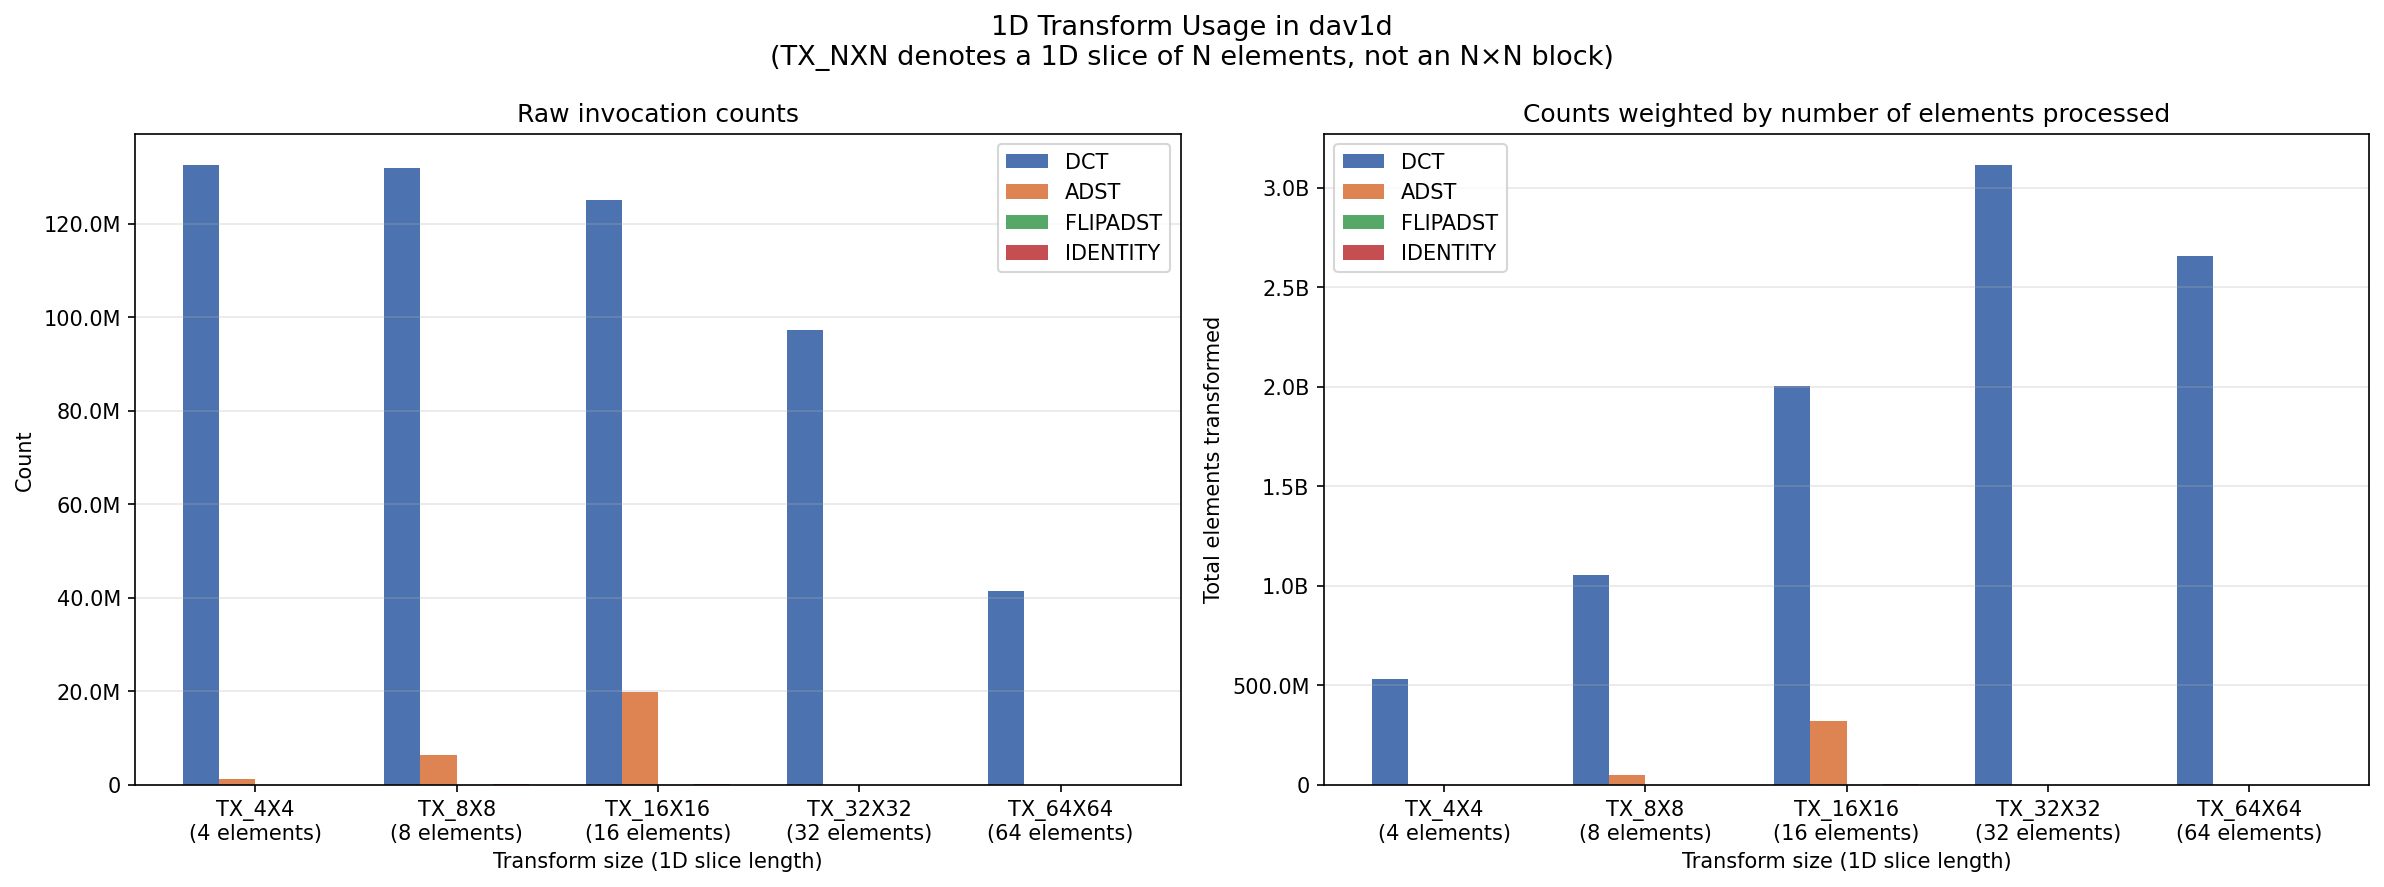
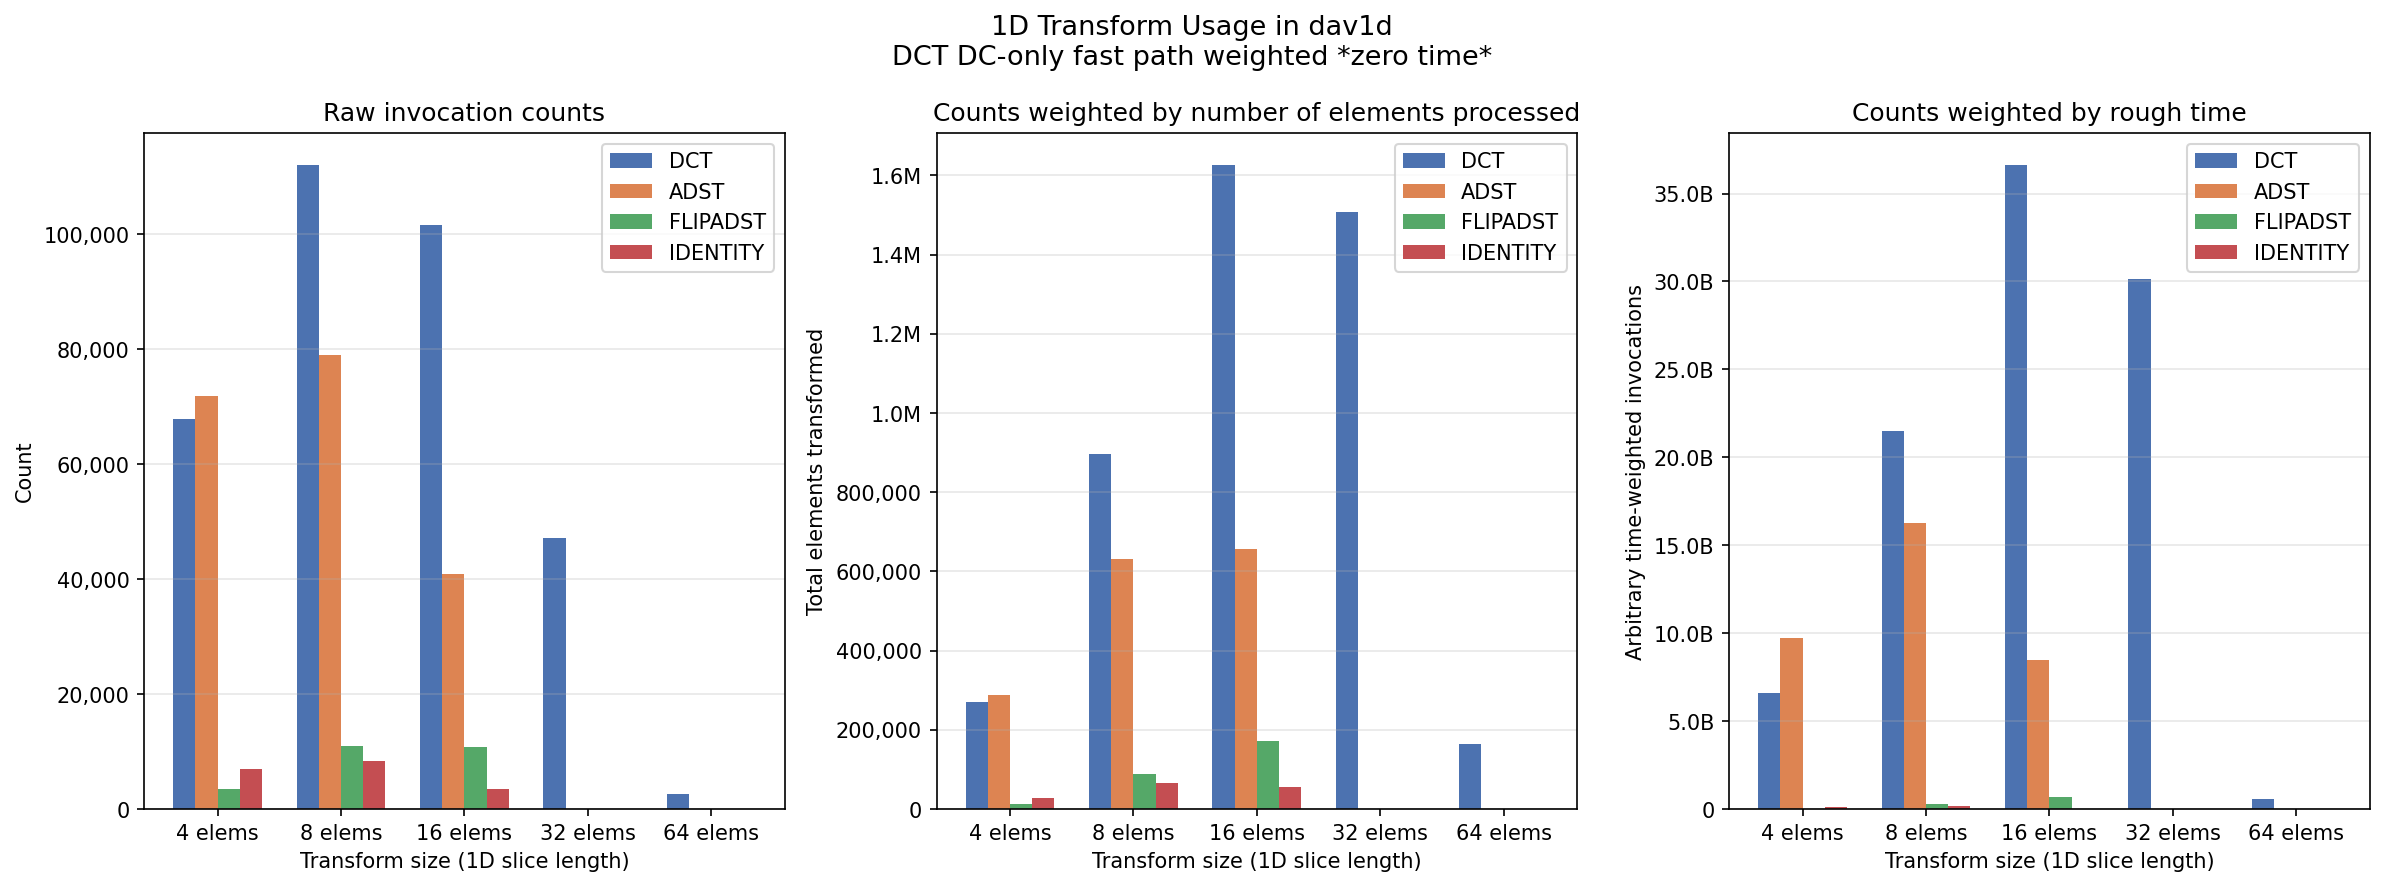
Improve metrics collection

diff --git a/scripts/plot_frequencies.py b/scripts/plot_frequencies.py
@@ -4,43 +4,34 @@ import matplotlib.ticker as ticker
 import numpy as np
 from pathlib import Path
 
-# TX size -> number of elements (1D slice length, not 2D block)
-TX_ELEMENTS = {
-    "TX_4X4": 4,
-    "TX_8X8": 8,
-    "TX_16X16": 16,
-    "TX_32X32": 32,
-    "TX_64X64": 64,
-}
 
-TX_SIZES = list(TX_ELEMENTS.keys())
+TX_SIZES = [4, 8, 16, 32, 64]
 TX_TYPES = ["DCT", "ADST", "FLIPADST", "IDENTITY"]
 
-data = {size: {tx_type: 0 for tx_type in TX_TYPES} for size in TX_SIZES}
+data = {size: {tx_type: (0, 0) for tx_type in TX_TYPES} for size in TX_SIZES}
 
 script_dir = Path(__file__).parent
 with open(script_dir / "data.csv") as f:
     for row in csv.reader(f):
-        if len(row) != 3:
+        if len(row) != 4:
             continue
-        size, tx_type, count = row[0].strip(), row[1].strip(), int(row[2].strip())
+        size, tx_type, count, time_weight = int(row[0].strip()), row[1].strip(), int(row[2].strip()), int(row[3].strip())
         if size in data and tx_type in data[size]:
-            data[size][tx_type] = count
+            data[size][tx_type] = (count, time_weight) 
 
 x = np.arange(len(TX_SIZES))
 width = 0.18
 colors = ["#4C72B0", "#DD8452", "#55A868", "#C44E52"]
 
-SUPTITLE = ("1D Transform Usage in dav1d\n"
-            "(TX_NXN denotes a 1D slice of N elements, not an N×N block)")
-XLABELS = [f"{s}\n({TX_ELEMENTS[s]} elements)" for s in TX_SIZES]
+SUPTITLE = "1D Transform Usage in dav1d\nDCT DC-only fast path weighted *zero time*"
+XLABELS = [f"{s} elems" for s in TX_SIZES]
 XTICKS = x + width * (len(TX_TYPES) - 1) / 2
 
 
-def plot_pair(ax1, ax2, log=False):
+def plot_all(ax1, ax2, ax3):
     # --- Raw counts ---
     for i, tx_type in enumerate(TX_TYPES):
-        counts = [data[size][tx_type] for size in TX_SIZES]
+        counts = [data[size][tx_type][0] for size in TX_SIZES]
         ax1.bar(x + i * width, counts, width, label=tx_type, color=colors[i])
 
     ax1.set_title("Raw invocation counts")
@@ -48,17 +39,14 @@ def plot_pair(ax1, ax2, log=False):
     ax1.set_ylabel("Count")
     ax1.set_xticks(XTICKS)
     ax1.set_xticklabels(XLABELS)
-    if log:
-        ax1.set_yscale("log")
-    else:
-        ax1.yaxis.set_major_formatter(ticker.FuncFormatter(
-            lambda v, _: f"{v/1e6:.1f}M" if v >= 1e6 else f"{int(v):,}"))
+    ax1.yaxis.set_major_formatter(ticker.FuncFormatter(
+        lambda v, _: f"{v/1e6:.1f}M" if v >= 1e6 else f"{int(v):,}"))
     ax1.legend()
     ax1.grid(axis="y", alpha=0.3)
 
     # --- Element-weighted counts ---
     for i, tx_type in enumerate(TX_TYPES):
-        weighted = [data[size][tx_type] * TX_ELEMENTS[size] for size in TX_SIZES]
+        weighted = [data[size][tx_type][0] * size for size in TX_SIZES]
         ax2.bar(x + i * width, weighted, width, label=tx_type, color=colors[i])
 
     ax2.set_title("Counts weighted by number of elements processed")
@@ -66,31 +54,34 @@ def plot_pair(ax1, ax2, log=False):
     ax2.set_ylabel("Total elements transformed")
     ax2.set_xticks(XTICKS)
     ax2.set_xticklabels(XLABELS)
-    if log:
-        ax2.set_yscale("log")
-    else:
-        ax2.yaxis.set_major_formatter(ticker.FuncFormatter(
-            lambda v, _: f"{v/1e9:.1f}B" if v >= 1e9 else f"{v/1e6:.1f}M" if v >= 1e6 else f"{int(v):,}"))
+    ax2.yaxis.set_major_formatter(ticker.FuncFormatter(
+        lambda v, _: f"{v/1e9:.1f}B" if v >= 1e9 else f"{v/1e6:.1f}M" if v >= 1e6 else f"{int(v):,}"))
     ax2.legend()
     ax2.grid(axis="y", alpha=0.3)
 
+    # --- Time-weighted counts ---
+    for i, tx_type in enumerate(TX_TYPES):
+        time_weighted = [data[size][tx_type][0] * data[size][tx_type][1] for size in TX_SIZES]
+        ax3.bar(x + i * width, time_weighted, width, label=tx_type, color=colors[i])
+
+    ax3.set_title("Counts weighted by rough time")
+    ax3.set_xlabel("Transform size (1D slice length)")
+    ax3.set_ylabel("Arbitrary time-weighted invocations")
+    ax3.set_xticks(XTICKS)
+    ax3.set_xticklabels(XLABELS)
+    ax3.yaxis.set_major_formatter(ticker.FuncFormatter(
+        lambda v, _: f"{v/1e9:.1f}B" if v >= 1e9 else f"{v/1e6:.1f}M" if v >= 1e6 else f"{int(v):,}"))
+    ax3.legend()
+    ax3.grid(axis="y", alpha=0.3)
+
 
 # Linear scale
-fig1, (ax1, ax2) = plt.subplots(1, 2, figsize=(16, 6))
+fig1, (ax1, ax2, ax3) = plt.subplots(1, 3, figsize=(16, 6))
 fig1.suptitle(SUPTITLE, fontsize=13)
-plot_pair(ax1, ax2, log=False)
+plot_all(ax1, ax2, ax3)
 fig1.tight_layout()
 out1 = script_dir / "transform_frequencies.png"
 fig1.savefig(out1, dpi=150, bbox_inches="tight")
 print(f"Saved to {out1}")
-
-# Log scale
-fig2, (ax3, ax4) = plt.subplots(1, 2, figsize=(16, 6))
-fig2.suptitle(SUPTITLE + " — log scale", fontsize=13)
-plot_pair(ax3, ax4, log=True)
-fig2.tight_layout()
-out2 = script_dir / "transform_frequencies_log.png"
-fig2.savefig(out2, dpi=150, bbox_inches="tight")
-print(f"Saved to {out2}")
 
 plt.show()

diff --git a/src/itx_1d.c b/src/itx_1d.c
@@ -88,8 +88,6 @@ inv_dct4_1d_internal_c(int32_t *const c, const ptrdiff_t stride,
     c[1 * stride] = CLIP(t1 + t2);
     c[2 * stride] = CLIP(t1 - t2);
     c[3 * stride] = CLIP(t0 - t3);
-
-    atomic_fetch_add(&dav1d_tx1d_metrics[TX_4X4][DCT], 1);
 }
 
 static void inv_dct4_1d_c(int32_t *const c, const ptrdiff_t stride,
@@ -143,8 +141,6 @@ inv_dct8_1d_internal_c(int32_t *const c, const ptrdiff_t stride,
     c[5 * stride] = CLIP(t2 - t5);
     c[6 * stride] = CLIP(t1 - t6);
     c[7 * stride] = CLIP(t0 - t7);
-
-    atomic_fetch_add(&dav1d_tx1d_metrics[TX_8X8][DCT], 1);
 }
 
 static void inv_dct8_1d_c(int32_t *const c, const ptrdiff_t stride,
@@ -240,8 +236,6 @@ inv_dct16_1d_internal_c(int32_t *const c, const ptrdiff_t stride,
     c[13 * stride] = CLIP(t2 - t13a);
     c[14 * stride] = CLIP(t1 - t14);
     c[15 * stride] = CLIP(t0 - t15a);
-
-    atomic_fetch_add(&dav1d_tx1d_metrics[TX_16X16][DCT], 1);
 }
 
 static void inv_dct16_1d_c(int32_t *const c, const ptrdiff_t stride,
@@ -432,8 +426,6 @@ inv_dct32_1d_internal_c(int32_t *const c, const ptrdiff_t stride,
     c[29 * stride] = CLIP(t2  - t29);
     c[30 * stride] = CLIP(t1  - t30a);
     c[31 * stride] = CLIP(t0  - t31);
-
-    atomic_fetch_add(&dav1d_tx1d_metrics[TX_32X32][DCT], 1);
 }
 
 static void inv_dct32_1d_c(int32_t *const c, const ptrdiff_t stride,
@@ -787,8 +779,6 @@ static void inv_dct64_1d_c(int32_t *const c, const ptrdiff_t stride,
     c[61 * stride] = CLIP(t2  - t61a);
     c[62 * stride] = CLIP(t1  - t62);
     c[63 * stride] = CLIP(t0  - t63a);
-
-    atomic_fetch_add(&dav1d_tx1d_metrics[TX_64X64][DCT], 1);
 }
 
 static NOINLINE void
@@ -810,8 +800,6 @@ inv_adst4_1d_internal_c(const int32_t *const in, const ptrdiff_t in_s,
     out[3 * out_s] = (((3803 - 4096) * in0 + (2482 - 4096) * in2 -
                         1321         * in3 - (3344 - 4096) * in1 + 2048) >> 12) +
                      in0 + in2 - in1;
-
-    atomic_fetch_add(&dav1d_tx1d_metrics[TX_4X4][ADST], 1);
 }
 
 static NOINLINE void
@@ -861,8 +849,6 @@ inv_adst8_1d_internal_c(const int32_t *const in, const ptrdiff_t in_s,
     out[4 * out_s] =   ((t2 - t3) * 181 + 128) >> 8;
     out[2 * out_s] =   ((t6 + t7) * 181 + 128) >> 8;
     out[5 * out_s] = -(((t6 - t7) * 181 + 128) >> 8);
-
-    atomic_fetch_add(&dav1d_tx1d_metrics[TX_8X8][ADST], 1);
 }
 
 static NOINLINE void
@@ -974,8 +960,6 @@ inv_adst16_1d_internal_c(const int32_t *const in, const ptrdiff_t in_s,
     out[ 9 * out_s] = -(((t10  - t11)  * 181 + 128) >> 8);
     out[ 5 * out_s] = -(((t14a + t15a) * 181 + 128) >> 8);
     out[10 * out_s] =   ((t14a - t15a) * 181 + 128) >> 8;
-
-    atomic_fetch_add(&dav1d_tx1d_metrics[TX_16X16][ADST], 1);
 }
 
 #define inv_adst_1d(sz) \
@@ -1005,8 +989,6 @@ static void inv_identity4_1d_c(int32_t *const c, const ptrdiff_t stride,
         const int in = c[stride * i];
         c[stride * i] = in + ((in * 1697 + 2048) >> 12);
     }
-
-    atomic_fetch_add(&dav1d_tx1d_metrics[TX_4X4][IDENTITY], 1);
 }
 
 static void inv_identity8_1d_c(int32_t *const c, const ptrdiff_t stride,
@@ -1015,8 +997,6 @@ static void inv_identity8_1d_c(int32_t *const c, const ptrdiff_t stride,
     assert(stride > 0);
     for (int i = 0; i < 8; i++)
         c[stride * i] *= 2;
-
-    atomic_fetch_add(&dav1d_tx1d_metrics[TX_8X8][IDENTITY], 1);
 }
 
 static void inv_identity16_1d_c(int32_t *const c, const ptrdiff_t stride,
@@ -1027,8 +1007,6 @@ static void inv_identity16_1d_c(int32_t *const c, const ptrdiff_t stride,
         const int in = c[stride * i];
         c[stride * i] = 2 * in + ((in * 1697 + 1024) >> 11);
     }
-
-    atomic_fetch_add(&dav1d_tx1d_metrics[TX_16X16][IDENTITY], 1);
 }
 
 static void inv_identity32_1d_c(int32_t *const c, const ptrdiff_t stride,
@@ -1037,11 +1015,7 @@ static void inv_identity32_1d_c(int32_t *const c, const ptrdiff_t stride,
     assert(stride > 0);
     for (int i = 0; i < 32; i++)
         c[stride * i] *= 4;
-
-    atomic_fetch_add(&dav1d_tx1d_metrics[TX_32X32][IDENTITY], 1);
 }
-
-atomic_size_t dav1d_tx1d_metrics[N_TX_SIZES][N_TX_1D_TYPES] = { 0 };
 
 const itx_1d_fn dav1d_tx1d_fns[N_TX_SIZES][N_TX_1D_TYPES] = {
     [TX_4X4] = {

diff --git a/tools/dav1d.c b/tools/dav1d.c
@@ -392,29 +392,29 @@ int main(const int argc, char *const *const argv) {
 
 
     struct dav1d_metrics_t metrics = dav1d_get_metrics();
-    printf("TX_4X4, DCT, %zu\n", metrics.info[TX_4X4][DCT]);
-    printf("TX_8X8, DCT, %zu\n", metrics.info[TX_8X8][DCT]);
-    printf("TX_16X16, DCT, %zu\n", metrics.info[TX_16X16][DCT]);
-    printf("TX_32X32, DCT, %zu\n", metrics.info[TX_32X32][DCT]);
-    printf("TX_64X64, DCT, %zu\n", metrics.info[TX_64X64][DCT]);
+    printf("4, DCT, %zu, %lu\n", metrics.info[TX_4X4][DCT], metrics.time_info[TX_4X4][DCT]);
+    printf("8, DCT, %zu, %lu\n", metrics.info[TX_8X8][DCT], metrics.time_info[TX_8X8][DCT]);
+    printf("16, DCT, %zu, %lu\n", metrics.info[TX_16X16][DCT], metrics.time_info[TX_16X16][DCT]);
+    printf("32, DCT, %zu, %lu\n", metrics.info[TX_32X32][DCT], metrics.time_info[TX_32X32][DCT]);
+    printf("64, DCT, %zu, %lu\n", metrics.info[TX_64X64][DCT], metrics.time_info[TX_64X64][DCT]);
 
-    printf("TX_4X4, ADST, %zu\n", metrics.info[TX_4X4][ADST]);
-    printf("TX_8X8, ADST, %zu\n", metrics.info[TX_8X8][ADST]);
-    printf("TX_16X16, ADST, %zu\n", metrics.info[TX_16X16][ADST]);
-    printf("TX_32X32, ADST, %zu\n", metrics.info[TX_32X32][ADST]);
-    printf("TX_64X64, ADST, %zu\n", metrics.info[TX_64X64][ADST]);
+    printf("4, ADST, %zu, %lu\n", metrics.info[TX_4X4][ADST], metrics.time_info[TX_4X4][ADST]);
+    printf("8, ADST, %zu, %lu\n", metrics.info[TX_8X8][ADST], metrics.time_info[TX_8X8][ADST]);
+    printf("16, ADST, %zu, %lu\n", metrics.info[TX_16X16][ADST], metrics.time_info[TX_16X16][ADST]);
+    printf("32, ADST, %zu, %lu\n", metrics.info[TX_32X32][ADST], metrics.time_info[TX_32X32][ADST]);
+    printf("64, ADST, %zu, %lu\n", metrics.info[TX_64X64][ADST], metrics.time_info[TX_64X64][ADST]);
 
-    printf("TX_4X4, FLIPADST, %zu\n", metrics.info[TX_4X4][FLIPADST]);
-    printf("TX_8X8, FLIPADST, %zu\n", metrics.info[TX_8X8][FLIPADST]);
-    printf("TX_16X16, FLIPADST, %zu\n", metrics.info[TX_16X16][FLIPADST]);
-    printf("TX_32X32, FLIPADST, %zu\n", metrics.info[TX_32X32][FLIPADST]);
-    printf("TX_64X64, FLIPADST, %zu\n", metrics.info[TX_64X64][FLIPADST]);
+    printf("4, FLIPADST, %zu, %lu\n", metrics.info[TX_4X4][FLIPADST], metrics.time_info[TX_4X4][FLIPADST]);
+    printf("8, FLIPADST, %zu, %lu\n", metrics.info[TX_8X8][FLIPADST], metrics.time_info[TX_8X8][FLIPADST]);
+    printf("16, FLIPADST, %zu, %lu\n", metrics.info[TX_16X16][FLIPADST], metrics.time_info[TX_16X16][FLIPADST]);
+    printf("32, FLIPADST, %zu, %lu\n", metrics.info[TX_32X32][FLIPADST], metrics.time_info[TX_32X32][FLIPADST]);
+    printf("64, FLIPADST, %zu, %lu\n", metrics.info[TX_64X64][FLIPADST], metrics.time_info[TX_64X64][FLIPADST]);
 
-    printf("TX_4X4, IDENTITY, %zu\n", metrics.info[TX_4X4][IDENTITY]);
-    printf("TX_8X8, IDENTITY, %zu\n", metrics.info[TX_8X8][IDENTITY]);
-    printf("TX_16X16, IDENTITY, %zu\n", metrics.info[TX_16X16][IDENTITY]);
-    printf("TX_32X32, IDENTITY, %zu\n", metrics.info[TX_32X32][IDENTITY]);
-    printf("TX_64X64, IDENTITY, %zu\n", metrics.info[TX_64X64][IDENTITY]);
+    printf("4, IDENTITY, %zu, %lu\n", metrics.info[TX_4X4][IDENTITY], metrics.time_info[TX_4X4][IDENTITY]);
+    printf("8, IDENTITY, %zu, %lu\n", metrics.info[TX_8X8][IDENTITY], metrics.time_info[TX_8X8][IDENTITY]);
+    printf("16, IDENTITY, %zu, %lu\n", metrics.info[TX_16X16][IDENTITY], metrics.time_info[TX_16X16][IDENTITY]);
+    printf("32, IDENTITY, %zu, %lu\n", metrics.info[TX_32X32][IDENTITY], metrics.time_info[TX_32X32][IDENTITY]);
+    printf("64, IDENTITY, %zu, %lu\n", metrics.info[TX_64X64][IDENTITY], metrics.time_info[TX_64X64][IDENTITY]);
 
     return (res == 0) ? EXIT_SUCCESS : EXIT_FAILURE;
 }

diff --git a/src/itx_tmpl.c b/src/itx_tmpl.c
@@ -27,10 +27,12 @@
 
 #include "config.h"
 
+#include <stdatomic.h>
 #include <stddef.h>
 #include <stdint.h>
 #include <stdlib.h>
 #include <string.h>
+#include <time.h>
 
 #include "common/attributes.h"
 #include "common/intops.h"
@@ -39,6 +41,9 @@
 #include "src/itx_1d.h"
 #include "src/scan.h"
 #include "src/tables.h"
+
+atomic_size_t dav1d_tx1d_metrics[N_TX_SIZES][N_TX_1D_TYPES] = { 0 };
+atomic_uint_fast64_t dav1d_tx1d_metrics_time[N_TX_SIZES][N_TX_1D_TYPES] = { 0 };
 
 static NOINLINE void
 inv_txfm_add_c(pixel *dst, const ptrdiff_t stride, coef *const coeff,
@@ -55,6 +60,13 @@ inv_txfm_add_c(pixel *dst, const ptrdiff_t stride, coef *const coeff,
     const int is_rect2 = w * 2 == h || h * 2 == w;
     const int rnd = (1 << shift) >> 1;
 
+    const uint8_t *const txtps = dav1d_tx1d_types[txtp];
+    const itx_1d_fn first_1d_fn = dav1d_tx1d_fns[t_dim->lw][txtps[0]];
+    const itx_1d_fn second_1d_fn = dav1d_tx1d_fns[t_dim->lh][txtps[1]];
+
+    atomic_fetch_add(&dav1d_tx1d_metrics[t_dim->lw][txtps[0]], 1);
+    atomic_fetch_add(&dav1d_tx1d_metrics[t_dim->lh][txtps[1]], 1);
+
     if (eob < has_dconly) {
         int dc = coeff[0];
         coeff[0] = 0;
@@ -66,12 +78,10 @@ inv_txfm_add_c(pixel *dst, const ptrdiff_t stride, coef *const coeff,
         for (int y = 0; y < h; y++, dst += PXSTRIDE(stride))
             for (int x = 0; x < w; x++)
                 dst[x] = iclip_pixel(dst[x] + dc);
+
         return;
     }
 
-    const uint8_t *const txtps = dav1d_tx1d_types[txtp];
-    const itx_1d_fn first_1d_fn = dav1d_tx1d_fns[t_dim->lw][txtps[0]];
-    const itx_1d_fn second_1d_fn = dav1d_tx1d_fns[t_dim->lh][txtps[1]];
     const int sh = imin(h, 32), sw = imin(w, 32);
 #if BITDEPTH == 8
     const int row_clip_min = INT16_MIN;
@@ -93,6 +103,8 @@ inv_txfm_add_c(pixel *dst, const ptrdiff_t stride, coef *const coeff,
         last_nonzero_col = dav1d_last_nonzero_col_from_eob[tx][eob];
     }
     assert(last_nonzero_col < sh);
+
+    clock_t start = clock();
     for (int y = 0; y <= last_nonzero_col; y++, c += w) {
         if (is_rect2)
             for (int x = 0; x < sw; x++)
@@ -104,13 +116,18 @@ inv_txfm_add_c(pixel *dst, const ptrdiff_t stride, coef *const coeff,
     }
     if (last_nonzero_col + 1 < sh)
         memset(c, 0, sizeof(*c) * (sh - last_nonzero_col - 1) * w);
+    clock_t end = clock();
+    atomic_fetch_add(&dav1d_tx1d_metrics_time[t_dim->lw][txtps[0]], end - start);
 
     memset(coeff, 0, sizeof(*coeff) * sw * sh);
     for (int i = 0; i < w * sh; i++)
         tmp[i] = iclip((tmp[i] + rnd) >> shift, col_clip_min, col_clip_max);
 
+    start = clock();
     for (int x = 0; x < w; x++)
         second_1d_fn(&tmp[x], w, col_clip_min, col_clip_max);
+    end = clock();
+    atomic_fetch_add(&dav1d_tx1d_metrics_time[t_dim->lh][txtps[1]], end - start);
 
     c = tmp;
     for (int y = 0; y < h; y++, dst += PXSTRIDE(stride))

diff --git a/src/itx_1d.h b/src/itx_1d.h
@@ -47,6 +47,7 @@ void (name)(int32_t *c, ptrdiff_t stride, int min, int max)
 typedef decl_itx_1d_fn(*itx_1d_fn);
 
 EXTERN atomic_size_t dav1d_tx1d_metrics[N_TX_SIZES][N_TX_1D_TYPES];
+EXTERN atomic_size_t dav1d_tx1d_metrics_time[N_TX_SIZES][N_TX_1D_TYPES];
 EXTERN const itx_1d_fn dav1d_tx1d_fns[N_TX_SIZES][N_TX_1D_TYPES];
 EXTERN const uint8_t /* enum Tx1dType */ dav1d_tx1d_types[N_TX_TYPES][2];
 

diff --git a/src/lib.c b/src/lib.c
@@ -765,5 +765,6 @@ void dav1d_data_props_unref(Dav1dDataProps *const props) {
 struct dav1d_metrics_t dav1d_get_metrics(void) {
     struct dav1d_metrics_t result;
     memcpy(&result.info, dav1d_tx1d_metrics, sizeof(dav1d_tx1d_metrics));
+    memcpy(&result.time_info, dav1d_tx1d_metrics_time, sizeof(dav1d_tx1d_metrics_time));
     return result;
 }

diff --git a/include/dav1d/dav1d.h b/include/dav1d/dav1d.h
@@ -326,6 +326,7 @@ DAV1D_API int dav1d_get_frame_delay(const Dav1dSettings *s);
 
 struct dav1d_metrics_t {
     size_t info[N_TX_SIZES][N_TX_1D_TYPES];
+    uint64_t time_info[N_TX_SIZES][N_TX_1D_TYPES];
 };
 
 DAV1D_API struct dav1d_metrics_t dav1d_get_metrics(void);
